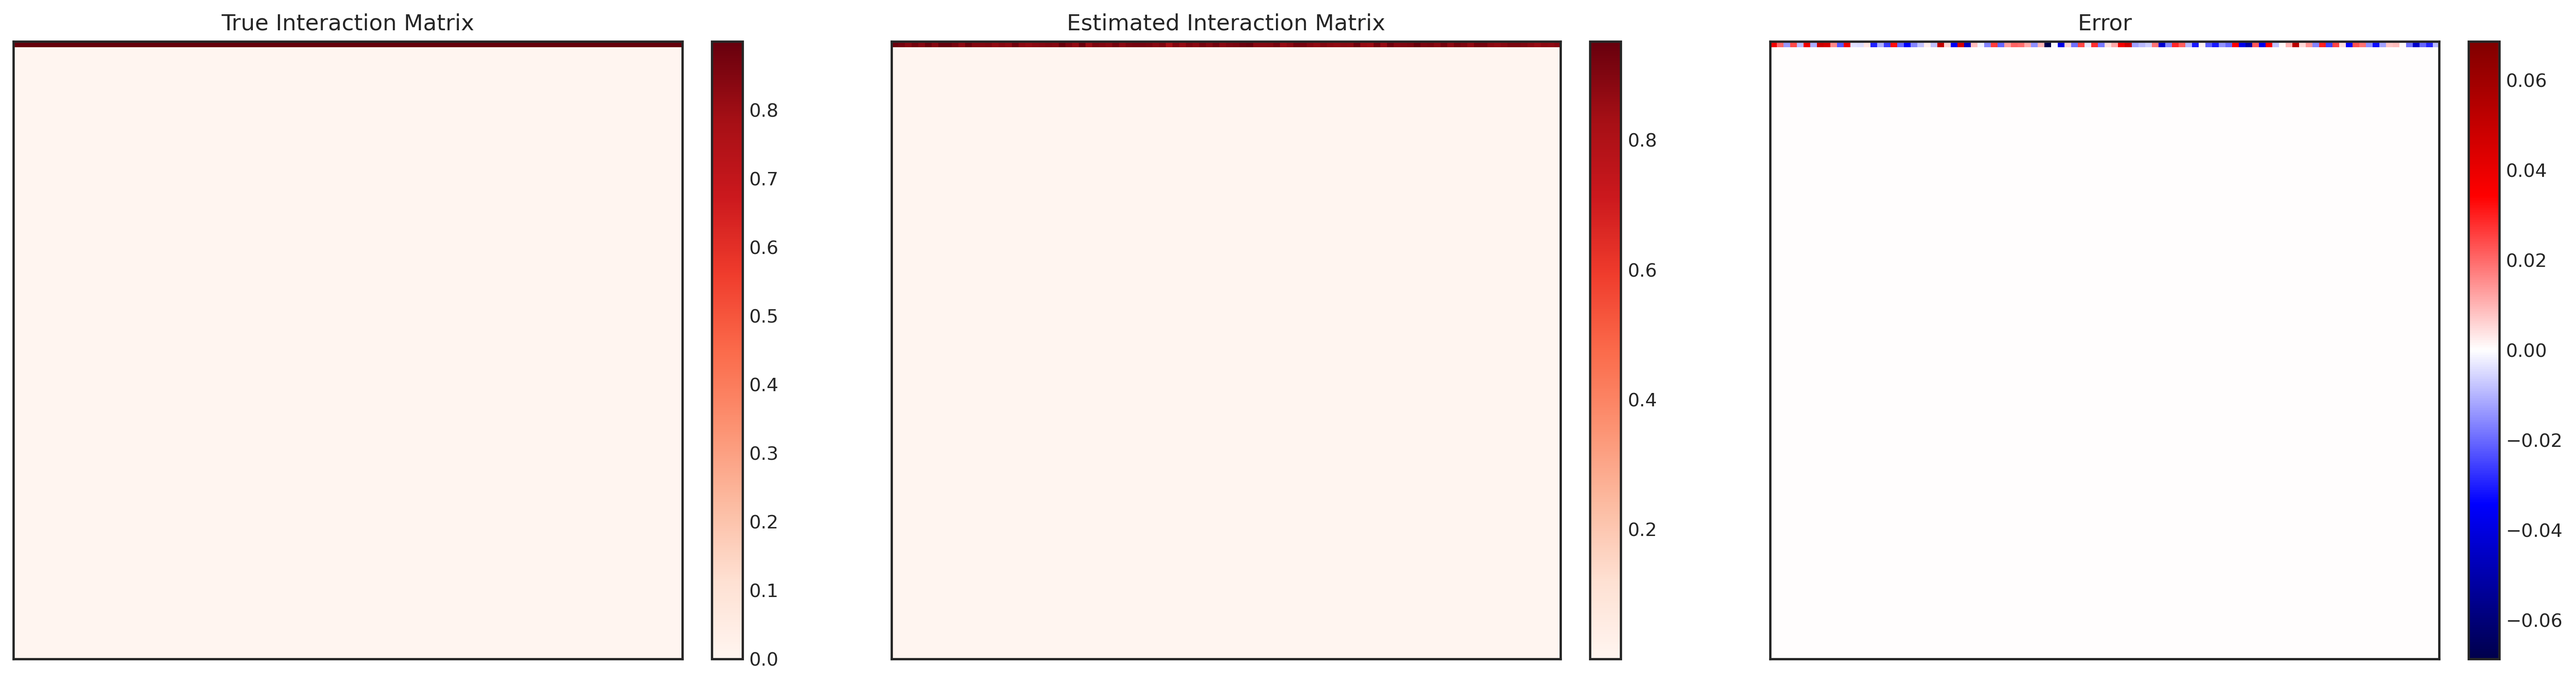
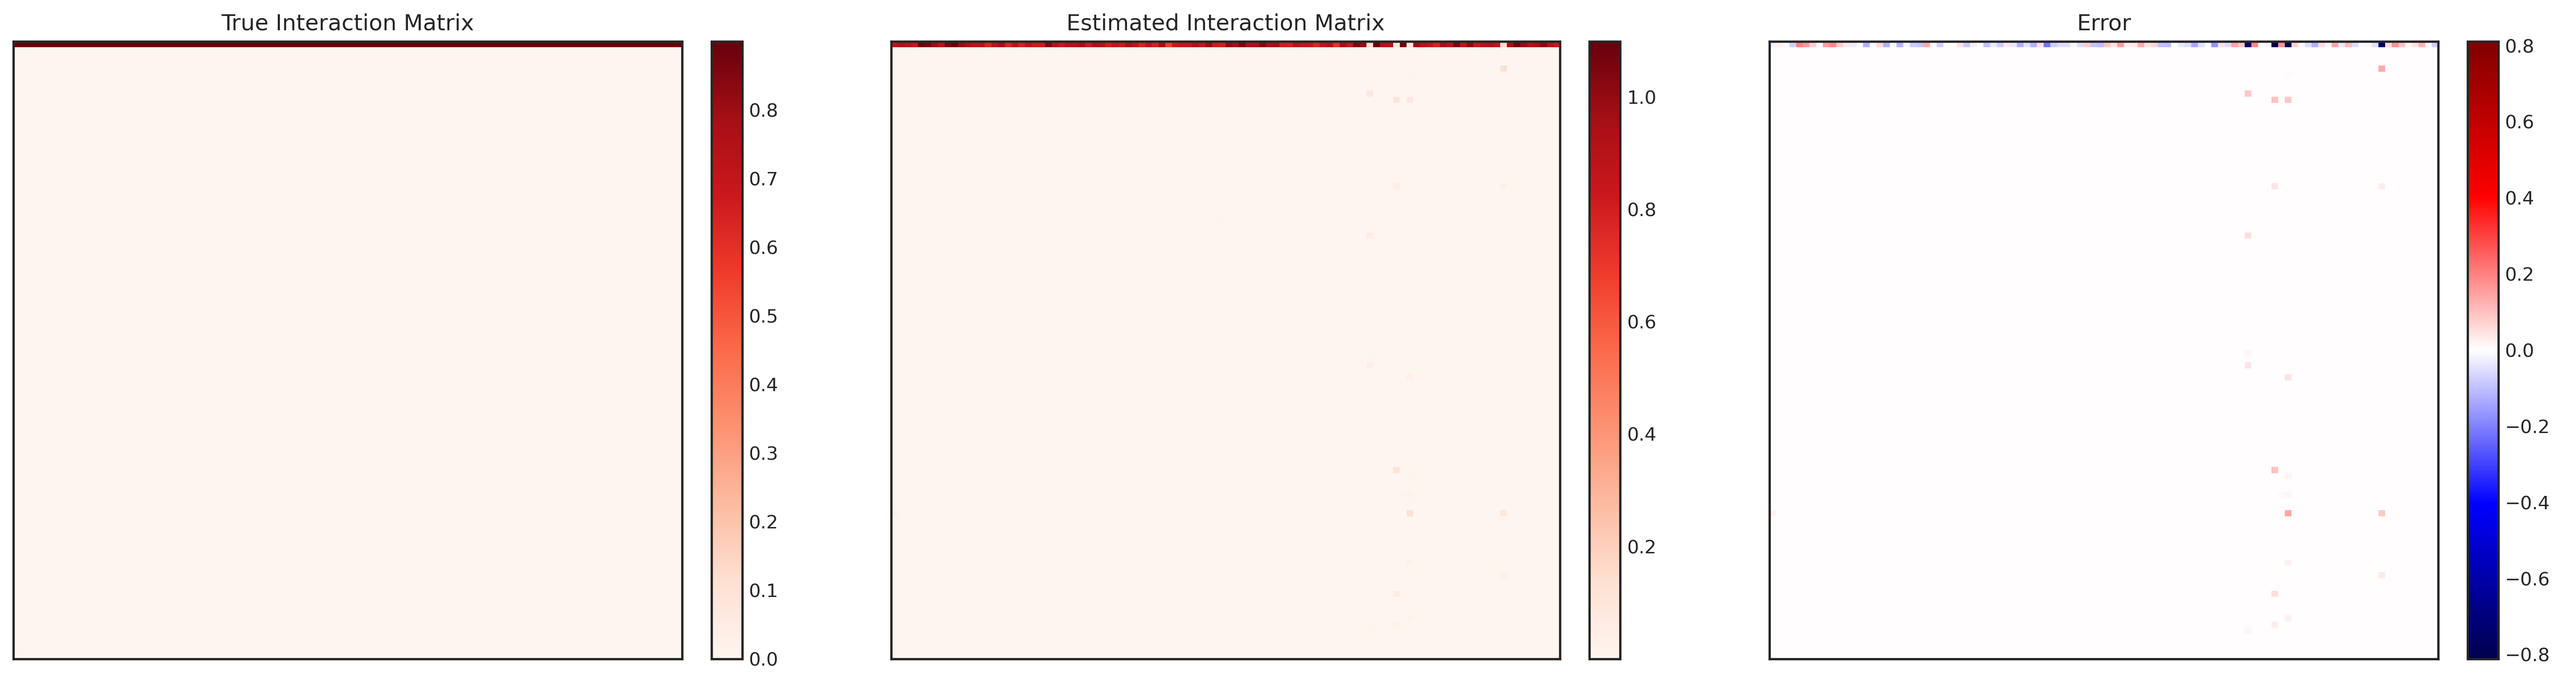
fixed gamma grads and batching

diff --git a/src/hawkes/models/hawkes_nll_function.py b/src/hawkes/models/hawkes_nll_function.py
@@ -28,7 +28,7 @@ class HawkesLogSumIntensity(torch.autograd.Function):
         nll_logsum_term = 0.0
 
         intensity_at_events = torch.empty(seq.N, device=seq.ti.device)
-        intensity_states = torch.empty(seq.N, seq.M, K, device=seq.ti.device)
+        intensity_states_at_events = torch.empty(seq.N, 1, K, device=seq.ti.device)
 
         prev_state = None
         for bs in range(0, seq.N, batch_size):
@@ -37,8 +37,8 @@ class HawkesLogSumIntensity(torch.autograd.Function):
             # TODO: Saving all states for backward is memory intensive
             (
                 batch_intensity,
-                batch_prev_state,
                 batch_states,
+                prev_state,
             ) = intensity_at_events_fun(
                 seq,
                 batch_prev_state=prev_state,
@@ -50,7 +50,9 @@ class HawkesLogSumIntensity(torch.autograd.Function):
             )
 
             intensity_at_events[bs:be] = batch_intensity
-            intensity_states[bs:be] = batch_states
+            intensity_states_at_events[bs:be] = torch.gather(
+                batch_states, dim=1, index=seq.mi[bs:be, None, None].expand(-1, 1, K)
+            )
 
             # Sum log intensities (the log lambda term in NLL)
             nll_logsum_term += torch.sum(torch.log(batch_intensity))
@@ -66,7 +68,7 @@ class HawkesLogSumIntensity(torch.autograd.Function):
             alpha,
             gamma,
             intensity_at_events,
-            intensity_states if gamma_param else None,
+            intensity_states_at_events if gamma_param else None,
         )
 
         return nll_logsum_term
@@ -80,7 +82,7 @@ class HawkesLogSumIntensity(torch.autograd.Function):
             alpha,
             gamma,
             intensity_at_events,
-            intensity_states,
+            intensity_states_at_events,
         ) = ctx.saved_tensors
         K = gamma.shape[0]
 
@@ -106,8 +108,8 @@ class HawkesLogSumIntensity(torch.autograd.Function):
                     seq,
                     alpha,
                     gamma,
-                    intensity_states,
                     intensity_at_events,
+                    intensity_states_at_events,
                     gamma_prev_state,
                     bs,
                     be,
@@ -213,8 +215,8 @@ def _compute_gamma_grad(
     seq: utils.EventSequence,
     alpha: torch.Tensor,
     gamma: torch.Tensor,
-    intensity_states: torch.Tensor,
     intensity_at_events: torch.Tensor,
+    intensity_states_at_events: torch.Tensor,
     gamma_prev_state: torch.Tensor,
     batch_start: int,
     batch_end: int,
@@ -227,26 +229,40 @@ def _compute_gamma_grad(
 
     ti_b, mi_b = seq.ti[bs:be], seq.mi[bs:be]  # Shape: [Nb]
     intensity_b = intensity_at_events[bs:be]  # Shape: [Nb]
-    intensity_states_b = intensity_states[bs:be]  # Shape: [Nb, M, K]
+    intensity_states_b = intensity_states_at_events[bs:be]  # Shape: [Nb, 1, K]
 
-    intensity_states_at_events = torch.gather(
-        intensity_states[bs:be], dim=1, index=seq.mi[bs:be, None, None].expand(-1, 1, K)
-    )  # Shape: [Nb, 1, K]
-
-    # Δt_i of shape [1, Nb, 1]
-    dti = seq.ti[bs:be] - (
+    # t_{i - 1} of shape [1, Nb, 1]
+    ti1 = (
         torch.cat([seq.ti[0:1], seq.ti[0 : (be - 1)]])
         if bs == 0
         else seq.ti[(bs - 1) : (be - 1)]
     )
+
+    # Δt_i of shape [1, Nb, 1]
+    dti = ti_b - ti1
+
+    ti1 = ti1[None, :, None]
     dti = dti[None, :, None]
+
+    # α_{m_{i-1}} of shape [K, Nb, M]
+    alpha_mi = (
+        torch.cat(
+            [
+                torch.zeros_like(alpha[:, 0:1, :]),
+                alpha[:, seq.mi[0 : (be - 1)], :],
+            ],
+            dim=1,
+        )
+        if bs == 0
+        else alpha[:, seq.mi[(bs - 1) : (be - 1)], :]
+    )
 
     # e^{-γ_k Δt_i}
     exp_dti = torch.exp(-gamma * dti).permute(2, 1, 0)  # Shape: [K, Nb, 1]
 
     # Build analogous transition matrices for d/dγ terms.
     M_gamma = torch.cat(
-        [exp_dti, -dti * intensity_states_b.permute(2, 0, 1)], dim=2
+        [exp_dti, exp_dti * ti1 * alpha_mi], dim=2
     )  # Shape: [K, Nb, M+1]
     if gamma_prev_state is not None:
         M_gamma = torch.cat([gamma_prev_state[:, None, :], M_gamma], dim=1)
@@ -263,11 +279,11 @@ def _compute_gamma_grad(
 
     # Compose the term required for gamma gradient from log-sum contribution
     gamma_grad_terms = (
-        intensity_states_at_events + gamma * gamma_states_at_events
+        gamma * gamma_states_at_events
+        + (1 - gamma * ti_b[:, None, None]) * intensity_states_b
     )  # Shape: [Nb, 1, K]
     gamma_grad = torch.sum(
-        gamma_grad_terms.squeeze(1) / intensity_b.unsqueeze(-1),
-        dim=0,
+        gamma_grad_terms.squeeze(1) / intensity_b.unsqueeze(-1), dim=0
     )  # Shape: [K]
 
     # Integral term gamma derivative (unused)

diff --git a/examples/fit_model.py b/examples/fit_model.py
@@ -99,11 +99,6 @@ match args.model_type:
             gamma=torch.tensor(est_gamma).to(args.device),
             init_scale=est_init_scale,
             gamma_param=True,
-            debug_config=config.HawkesDebugConfig(
-                check_grad_epsilon=False,
-                use_autograd_gradients=False,
-                profile_mem_iters=4000,
-            ),
         ).to(args.device)
     case "low-rank":
         model_est = models.HawkesLowRank(
@@ -112,10 +107,6 @@ match args.model_type:
             rank=est_rank,
             init_scale=est_init_scale,
             gamma_param=True,
-            debug_config=config.HawkesDebugConfig(
-                check_grad_epsilon=False,
-                use_autograd_gradients=False,
-            ),
         ).to(args.device)
     case "upper-triangular":
         model_est = models.HawkesUpperTriangular(
@@ -124,10 +115,6 @@ match args.model_type:
             rank=est_rank,
             init_scale=est_init_scale,
             gamma_param=True,
-            debug_config=config.HawkesDebugConfig(
-                check_grad_epsilon=False,
-                use_autograd_gradients=False,
-            ),
         ).to(args.device)
 
 _ = model_est.fit(seq, fit_config)

diff --git a/src/hawkes/models/hawkes_base.py b/src/hawkes/models/hawkes_base.py
@@ -175,7 +175,7 @@ class HawkesBase(torch.nn.Module, ABC):
             List of scalar loss values (training loss per epoch).
         """
 
-        assert seq.M <= self.M, f"sequence M is {seq.M} but model M is {self.M}" 
+        assert seq.M <= self.M, f"sequence M is {seq.M} but model M is {self.M}"
 
         if self.debug_config.detect_anomalies:
             torch.autograd.set_detect_anomaly(True)
@@ -592,10 +592,10 @@ class HawkesBase(torch.nn.Module, ABC):
 
         # Return assembled results according to requested flags
         res = (λ,)
-        if return_last_state:
-            res += (P[:, -1, :],)  # last prefix for next batch continuity
         if return_all_states:
             res += (states,)
+        if return_last_state:
+            res += (P[:, -1, :],)  # last prefix for next batch continuity
 
         return res if len(res) > 1 else res[0]
 
